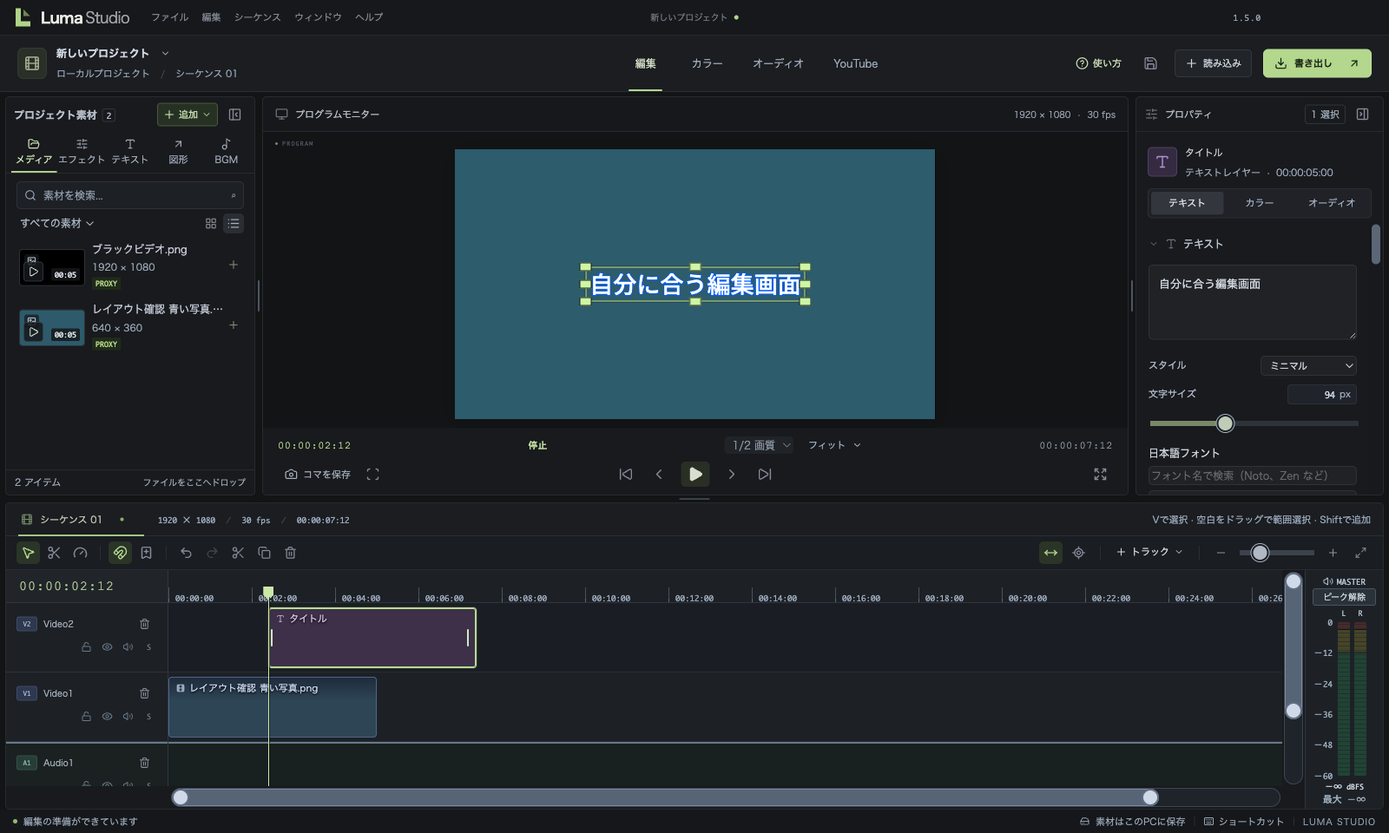
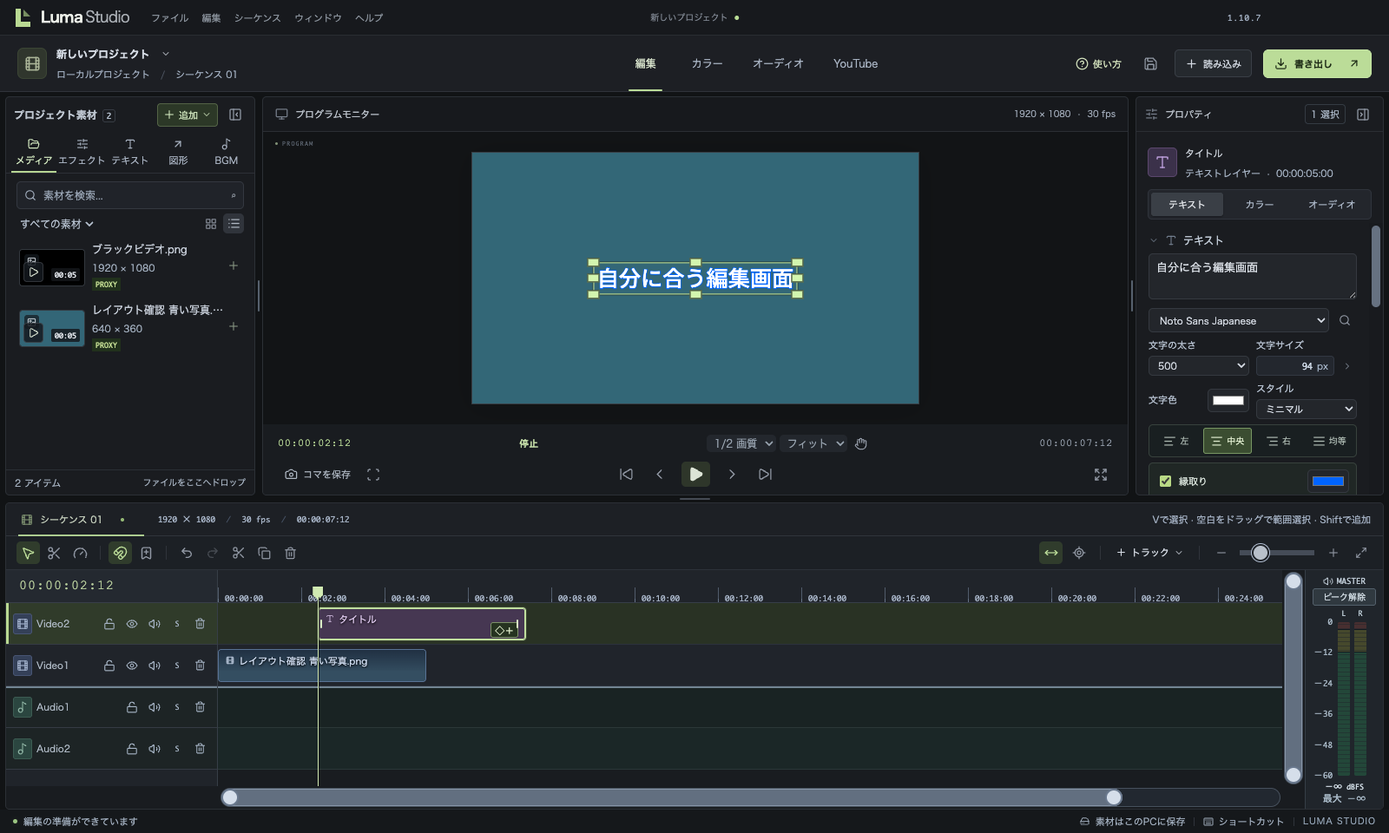
YouTube制作スタジオを拡大し、Luma Studio 1.10.7の配布と公式サイトを準備 (#136)
* feat: enlarge YouTube studio and add expanded monitor view

* test: preserve caption drafts scroll and time across monitor toggles

* test: verify studio toggles preserve playback position

* fix: preserve decoded cue frame when starting caption playback

* docs: prepare Luma Studio 1.10.7 release

* docs: refresh release website with verified 1.10.7 workspace

diff --git a/README.html b/README.html
@@ -4,9 +4,9 @@
   <meta charset="utf-8">
   <meta http-equiv="Content-Security-Policy" content="default-src 'none'; script-src 'unsafe-inline'; style-src 'unsafe-inline'; base-uri 'none'; form-action 'none'">
   <meta name="viewport" content="width=device-width, initial-scale=1">
-  <meta name="luma-version" content="1.10.6">
-  <meta name="description" content="Luma Studio 1.10.6 の日本語操作ガイド。文字揃え、影・縁取り、クロップ、マスク、範囲指定モザイク、ガウスぼかし、クロマキー、全35コマンドのショートカット、字幕、BGM、YouTube制作、MP4とMP3の書き出しを説明します。">
-  <title>Luma Studio 1.10.6 — 操作ガイド・全ショートカット一覧</title>
+  <meta name="luma-version" content="1.10.7">
+  <meta name="description" content="Luma Studio 1.10.7 の日本語操作ガイド。カットのガイドとスナップ、音声専用トラック、モニターでの選択と文字編集、数値ドラッグ、文字揃え、全35コマンドのショートカット、字幕、YouTube制作、MP4とMP3の書き出しを説明します。">
+  <title>Luma Studio 1.10.7 — 操作ガイド・全ショートカット一覧</title>
   <style>
     :root{color-scheme:light;--ink:#182b35;--muted:#526570;--paper:#f5f7f5;--line:#d7e1dc;--accent:#235942;--soft:#e8f1e9}
     *{box-sizing:border-box}html{scroll-behavior:smooth;scroll-padding-top:24px}body{margin:0;background:var(--paper);color:var(--ink);font:16px/1.85 "Yu Gothic UI","Meiryo",sans-serif}
@@ -29,11 +29,11 @@
 <body>
 <a class="skip" href="#main">本文へ移動</a>
 <header id="top"><div class="inner">
-  <div class="brand">LUMA STUDIO <span class="version">v1.10.6 / Windows・Mac</span></div>
+  <div class="brand">LUMA STUDIO <span class="version">v1.10.7 / Windows・Mac</span></div>
   <h1>編集を、迷わず進める。<br>操作ガイドと全ショートカット</h1>
   <p>素材の読み込みから字幕・BGM・YouTube用の投稿素材、MP4の書き出しまで。現在の実装に沿った日本語ガイドです。</p>
-  <p class="small">対応バージョン：1.10.6 · 更新日：2026年9月28日 · このHTMLはオフラインで閲覧できます。</p>
-  <p class="small">Mac開発版ではCtrlをCommand（⌘）、Deleteをdeleteと読み替えてください。Windowsから移した素材は再リンクが必要です。</p>
+  <p class="small">対応バージョン：1.10.7 · 更新日：2026年9月28日 · このHTMLはオフラインで閲覧できます。</p>
+  <p class="small">Mac版ではCtrlをCommand（⌘）、Deleteをdeleteと読み替えてください。Windowsから移した素材は再リンクが必要です。</p>
   <div class="hero-actions"><a href="#commands">全コマンド・キー一覧へ</a><a class="secondary" href="#start">最初の動画を作る</a><button type="button" id="print" data-enhanced hidden>印刷 / PDFに保存</button></div>
 </div></header>
 <div class="layout">
@@ -42,22 +42,17 @@
     <section id="new">
       <h2>最新版の主な機能</h2>
       <div class="cards">
-        <article class="card"><span class="tag">文字揃え</span><h3>左・中央・右・均等割付に揃える</h3><p>4つのボタンで文字揃えを切り替えます。文字枠がある場合は枠の内側、ない場合は最長行の幅が基準です。均等割付は最終行も含みます。</p></article>
-        <article class="card"><span class="tag">影・縁取り</span><h3>よく使う装飾をすぐに調整する</h3><p>影と縁取りのオン／オフ、色を常に表示します。縁取りの幅、影のぼかし・距離も同じ場所で調整できます。</p></article>
-        <article class="card"><span class="tag">コンパクトなプロパティ</span><h3>文章と装飾を先頭にまとめる</h3><p>文章、フォント、文字揃え、装飾を先に表示。説明文を省き、フォント検索と文字枠の設定は必要なときに開けます。</p></article>
-        <article class="card"><span class="tag">MP3書き出し</span><h3>タイムラインの音声だけを保存する</h3><p>動画内の音声、音声トラック、BGMを混ぜてMP3に保存できます。音声だけのプロジェクトにも対応します。</p></article>
-        <article class="card"><span class="tag">モザイク</span><h3>範囲と粒の大きさを指定する</h3><p>動画・画像の一部を、境界のはっきりした四角い粒で隠します。範囲と粗さはモニターや数値で指定できます。</p></article>
-        <article class="card"><span class="tag">ガウスぼかし</span><h3>範囲と強さを指定する</h3><p>動画・画像の選んだ範囲を滑らかにぼかします。モニターで範囲を移動・拡縮し、数値でも調整できます。</p></article>
-        <article class="card"><span class="tag">YouTube投稿文</span><h3>生成モデルを選ぶ</h3><p>投稿文にはGPT-6 AstraかGPT-6 Solを選べます。選択はアプリに保持され、文字起こしや画像生成のモデルは変わりません。</p></article>
-        <article class="card"><span class="tag">クロップ・マスク</span><h3>必要な形に、非破壊で切り抜く</h3><p>動画・画像の上下左右をクロップ。長方形、楕円、ベジェペンのマスクをモニター上で作成し、反転と境界ぼかしも調整できます。</p></article>
-        <article class="card"><span class="tag">クロマキー</span><h3>背景色をスポイトで選ぶ</h3><p>モニターの背景をクリックして採色。色の許容範囲、境界のなめらかさ、緑・青の色かぶり除去を調整できます。</p></article>
+        <article class="card"><span class="tag">カットとスナップ</span><h3>切る場所をガイド線で確認する</h3><p>ハサミの切断位置を縦線で表示します。スナップONなら、ハサミと再生ヘッドが近くの素材の切れ目へ吸着します。</p></article>
+        <article class="card"><span class="tag">コンパクトなトラック</span><h3>操作を1列にまとめる</h3><p>高さの初期値は最小48px。VideoとAudioをアイコンで区別し、新しくAudioへ置ける素材を音声に限定します。既存プロジェクトの配置は保持します。</p></article>
+        <article class="card"><span class="tag">モニターと数値編集</span><h3>画面で選び、その場で調整する</h3><p>クリックで素材とトラックを選択し、文字はダブルクリックで編集できます。数値欄はフォーカスしたまま左右ドラッグやUndo / Redoを使えます。</p></article>
+        <article class="card"><span class="tag">YouTube制作スタジオ</span><h3>映像を大きく確認する</h3><p>ウィンドウの縦幅を広げました。「モニターを拡大」で字幕一覧を隠し、「字幕一覧を表示」で戻せます。再生位置・選択・原稿は保持します。</p></article>
       </div>
-      <p class="small">モザイク、ガウスぼかし、クロップ、マスク、クロマキーは元の素材を変更せず、保存・Undo / Redo・トラックロック・MP4書き出しに対応します。会話音声の自動調整、BGM、音量ポイント、テキストの直接編集も引き続き利用できます。</p>
+      <p class="small">文字揃え、影・縁取り、MP3音声書き出し、範囲指定のモザイクやガウスぼかしも引き続き利用できます。各機能の条件と操作は、このガイドの該当項目を参照してください。</p>
     </section>
     <section id="start">
       <h2>起動と編集の流れ</h2>
       <p>1.0.0以降のWindows・Mac配布版は、素材・クリップ・マーカーが空の新規プロジェクトで起動します。初期設定は1920×1080・30fpsです。BGMライブラリにはbgm001.mp3〜bgm005.mp3の5曲を同梱し、必要な曲を選んで追加できます。「読み込み」から動画・画像・音声を追加してください。旧版の初期素材や外部「初期プロジェクト」は自動配置しません。保存済みプロジェクトは「開く」、自動保存は「復元する」で再開できます。</p>
-      <p>Windowsでは <code>Luma-Studio-1.10.6-Windows.exe</code> を起動します。Macでは配布ZIPを解凍し、<code>Luma Studio.app</code>を「アプリケーション」へ移動して起動します。Macの初回起動で開発元の確認が表示される場合は、別添のMac用手順を参照してください。Node.jsやFFmpegの別途インストールは不要です。MP4出力はCPUに加え、MacのVideoToolbox、WindowsのNVENC・Quick Sync・AMFに対応します。実際に使える方式はGPU・ドライバー・環境により異なります。</p>
+      <p>Windowsでは <code>Luma-Studio-1.10.7-Windows.exe</code> を起動します。Macでは配布ZIPを解凍し、<code>Luma Studio.app</code>を「アプリケーション」へ移動して起動します。Macの初回起動で開発元の確認が表示される場合は、別添のMac用手順を参照してください。Node.jsやFFmpegの別途インストールは不要です。MP4出力はCPUに加え、MacのVideoToolbox、WindowsのNVENC・Quick Sync・AMFに対応します。実際に使える方式はGPU・ドライバー・環境により異なります。</p>
       <ol>
         <li><strong>画面の向きを選ぶ：</strong>「ファイル → 新規プロジェクト」で横動画 <strong>1920×1080</strong> または Shorts <strong>1080×1920</strong> を選びます。初期値は30fps。後から「シーケンス」で変更できます。</li>
         <li><strong>素材を入れる：</strong>「読み込み」または <kbd>Ctrl</kbd> + <kbd>I</kbd>。動画・画像・音声のファイルをウィンドウへドラッグしても読み込めます。</li>
@@ -104,6 +99,7 @@
     </section>
     <section id="monitor">
       <h2>映像・画像をモニターで配置する</h2>
+      <p>停止中のプログラムモニターで映像・画像・文字・図形をクリックすると、対応するクリップとトラックを選択表示します。画面外にあるトラックもタイムラインの表示範囲へ移ります。選択だけでは再生位置や編集履歴は変わりません。ロック中の文字・図形も選択できますが、配置や文字は変更できません。</p>
       <h3>現在のコマを写真として保存する</h3>
       <p>保存したいコマへ移動し、モニター下のカメラボタン「現在のコマを保存」を押します。PNGまたはJPEGを選び、「保存先を選んで保存」でフォルダと名前を指定してください。テロップ・図形を含む編集画面を保存し、選択枠やガイドは含めません。</p>
       <p>「プロジェクトの素材にも追加」は最初からチェック済みです。写真だけ保存したい場合は外してください。追加した写真は素材一覧からタイムラインへ配置できます。写真の保存先と素材の読み込み先は別々に記憶し、次回起動後も前回のフォルダから選べます。</p>
@@ -116,7 +112,7 @@
       <p><kbd>Alt</kbd> を押している間は吸着を解除して微調整できます。一度吸着すると内外8pxまでの手ぶれを保持し、それ以上離すと解除します。細かい余白へ配置する場合はAltを押してください。テキスト・図形にも同じ操作が使えます。リサイズや数値入力には吸着しません。</p>
       <p>位置とスケールは右側のプロパティと連動し、保存・MP4出力にも反映します。<strong>位置X・Yは画面左上を基準にした素材の中心座標（px）</strong>です。1920×1080の画面中央はX=960、Y=540。拡大率は10〜300%。大きく拡大した場合もハンドルをモニター内の端に表示します。回転・不透明度・色調整はプロパティで設定します。</p>
       <p>数値の入力や図形の追加前設定を始めると再生が止まり、その時刻で調整できます。プロパティのタブは左右矢印キー、Home、Endでも切り替えられます。</p>
-      <p>数値欄の下のスライダーは通常折りたたまれています。数値欄横の矢印を押すと個別に開閉できます。折りたたんだままでも、数値の入力と左右ドラッグで調整できます。</p>
+      <p>数値欄の下のスライダーは通常折りたたまれています。数値欄横の矢印を押すと個別に開閉できます。折りたたんだままでも、数値の入力と左右ドラッグで調整できます。数値欄にフォーカスがあってもドラッグでき、1回のドラッグを1回のUndoで戻せます。数値欄・スライダーにフォーカスしたまま <kbd>Ctrl</kbd> + <kbd>Z</kbd> で元に戻し、<kbd>Ctrl</kbd> + <kbd>Shift</kbd> + <kbd>Z</kbd> または <kbd>Ctrl</kbd> + <kbd>Y</kbd> でやり直せます。MacではCommandも使えます。</p>
       <p>画像を動画に重ねるには、画像を上側の映像トラックへ置きます。停止中のメインモニターで直接操作できます。再生中やロック中、非表示・オフラインの素材は直接編集できません。</p>
       <h3>クロップとマスクで切り抜く</h3>
       <p>動画または画像を選び、右の「ビデオ → クロップ」で「モニターでクロップ」を押します。モニターに表示される4辺をドラッグするか、上・右・下・左を数値で指定します。元素材は変更せず、少なくとも1%の表示範囲を残します。</p>
@@ -141,7 +137,7 @@
     <section id="text">
       <h2>テキスト・図形・効果音</h2>
       <h3>文字を直接編集する</h3>
-      <p>左の「テキスト」に並ぶ見本をクリックすると、タイトル、ミニマル、字幕を再生ヘッドの位置へ追加できます。停止中のモニターで文字を<strong>ダブルクリック</strong>、または文字の移動ボタンにフォーカスして <kbd>F2</kbd> を押すと、その場で編集できます。<kbd>Enter</kbd> は改行、<kbd>Ctrl</kbd> + <kbd>Enter</kbd> で確定、<kbd>Esc</kbd> で取り消しです。入力欄に重なる操作ガイドは表示しません。開いた直後から入力でき、入力欄の外をクリックすると確定します。</p>
+      <p>左の「テキスト」に並ぶ見本をクリックすると、タイトル、ミニマル、字幕を再生ヘッドの位置へ追加できます。停止中のモニターでは、文字を1回クリックすると素材とトラックを選択します。文字を<strong>ダブルクリック</strong>、または文字の移動ボタンにフォーカスして <kbd>F2</kbd> を押すと、その場で編集できます。<kbd>Enter</kbd> は改行、<kbd>Ctrl</kbd> + <kbd>Enter</kbd> で確定、<kbd>Esc</kbd> で取り消しです。入力欄に重なる操作ガイドは表示しません。開いた直後から入力でき、入力欄の外をクリックすると確定します。</p>
       <p>文字をドラッグして移動し、選択枠の四隅・辺でテキストボックスの幅・高さを変えられます。<strong>枠の変更は文字サイズの変更とは別</strong>で、幅に合わせて折り返します。文字が隠れるときはプロパティの「枠の高さを文字に合わせる」を使います。</p>
       <p>初期フォントは同梱の<strong>Noto Sans Japanese</strong>。登録済みのGoogle Fonts日本語書体を選択でき、同梱以外は初回に取得して保存します。フォント、太さ、文字サイズ、色、左・中央・右揃え・均等割付を変更できます。影と縁取りはテキスト欄から直接オン／オフ、色、ぼかし・距離・幅を調整できます。</p>
       <div class="note"><strong>新規テキストの共通初期値：</strong>影なし、縁取りあり・<strong>4px</strong>、縁取り色 <strong>R0・G100・B255（#0064FF）</strong>。ミニマルの中心は横型で960・540、縦型で540・960です。既存テキストの設定は維持します。</div>
@@ -200,6 +196,7 @@
     <section id="youtube">
       <h2>自動字幕・YouTubeの投稿素材を作る</h2>
       <p>上部の「YouTube」から制作スタジオを開きます。AI機能の実行にはOpenAI APIキーが必要で、音声や入力内容を外部へ送信し、API利用料が発生します。</p>
+      <p>制作スタジオは画面の高さを広く使います。日本語字幕の「モニターを拡大」を押すと字幕一覧を隠して映像を大きく表示し、「字幕一覧を表示」で元に戻せます。再生位置、字幕の選択、確定済みの原稿、一覧のスクロール位置を保持します。反復再生中も切り替えられます。</p>
       <ol>
         <li><strong>API設定：</strong>キーを入力、または「.envから読み込む」で <code>OPENAI_API_KEY</code> のあるファイルを選びます。Windowsユーザー用に暗号化して保存し、プロジェクトには含めません。</li>
         <li><strong>日本語で文字起こし：</strong>編集済みタイムラインの音声を使います。固有名詞・専門用語をヒントに入力できます。会話が埋もれる場合はBGMをミュートして実行します。</li>
@@ -238,10 +235,10 @@
       <p>進捗表示、中止、保存先を開く操作に対応します。新しい出力が完成するまで既存の出力は置き換えません。元の素材と同じ場所・ファイル名への書き出しはできません。</p>
       <p>キーフレームで動くマスクは、同じ内容を再び書き出すと準備済みのマスクを再利用します。マスクや素材、書き出しサイズ、FPSを変えた場合は作り直します。不要になった準備データは「ヘルプ → 書き出し用マスクキャッシュを削除」から消せます。素材と完成したMP4は削除されません。</p>
     </section>
-    <section id="updates"><h2>ヘルプとアップデート</h2><p>ヘルプメニューから「初めての動画編集」「ショートカットキー一覧」「アップデート」を開けます。ショートカット一覧にはWindows / Macと修飾キーを切り替えられるキーボード図があります。</p><p>起動時にGitHubの最新安定版を確認し、対応する新しい配布版があると「更新あり」を表示します。「アップデート」から再確認とダウンロードページの表示ができます。自動でアプリを置き換える機能ではありません。編集を保存し、書き出しを終えてアプリを終了してから入れ替えてください。1.0.0からの初回更新は公式サイトから1.10.6を取得してください。</p></section><section id="commands">
+    <section id="updates"><h2>ヘルプとアップデート</h2><p>ヘルプメニューから「初めての動画編集」「ショートカットキー一覧」「アップデート」を開けます。ショートカット一覧にはWindows / Macと修飾キーを切り替えられるキーボード図があります。</p><p>起動時にGitHubの最新安定版を確認し、対応する新しい配布版があると「更新あり」を表示します。「アップデート」から再確認とダウンロードページの表示ができます。自動でアプリを置き換える機能ではありません。編集を保存し、書き出しを終えてアプリを終了してから入れ替えてください。1.0.0からの初回更新は公式サイトから1.10.7を取得してください。</p></section><section id="commands">
       <h2>全コマンド・ショートカット一覧</h2>
       <p><strong>通常のキー割り当ては全35コマンド。</strong>別キーも併記しています。続けて、特定の場所で使うキー、マウス操作、キー未割り当てのコマンドと操作場所を掲載しています。</p>
-      <div class="note"><p><strong>キーが効く場所に注意：</strong>入力欄・日本語変換中・ダイアログやメニューの表示中は、通常の編集ショートカットを実行しません。音量ポイントなどにフォーカスがあると、その場所の操作が優先されます。Windows用のCtrl表記です。</p><p>コマ送り・ズームは押し続けて連続操作できます。削除・分割・J/Lの加速は押し直して操作します。<kbd>?</kbd> でアプリ内のショートカット検索を開けます。</p></div>
+      <div class="note"><p><strong>キーが効く場所に注意：</strong>文章の入力欄・日本語変換中・ダイアログやメニューの表示中は、通常の編集ショートカットを実行しません。数値欄・スライダーでは、フォーカス中もUndo / Redoを利用できます。音量ポイントなどにフォーカスがあると、その場所の操作が優先されます。Windows用のCtrl表記です。</p><p>コマ送り・ズームは押し続けて連続操作できます。削除・分割・J/Lの加速は押し直して操作します。<kbd>?</kbd> でアプリ内のショートカット検索を開けます。</p></div>
       <div class="search-panel" data-enhanced hidden>
         <div class="search-fields"><label for="command-search">コマンド・キー・操作場所で検索<input id="command-search" type="search" placeholder="例：Ctrl / 音量 / リップル / F2" autocomplete="off" aria-controls="command-tables"></label><label for="command-type">表示する種類<select id="command-type" aria-controls="command-tables"><option value="all">すべて</option><option value="global">通常のショートカット</option><option value="context">場面別のキー操作</option><option value="mouse">マウス操作</option><option value="menu">キー未割り当て</option></select></label></div>
         <div class="search-status"><span id="command-count" role="status" aria-live="polite"></span><button id="clear-search" type="button">絞り込みを解除</button></div>
@@ -425,7 +422,7 @@
       <h2>対応範囲・開発用の確認</h2>
       <p>Windows用の日本語マルチトラック動画編集アプリです。編集と動画書き出しはローカルで処理し、AI機能の実行時はOpenAI APIへ送信します。追加フォントの初回取得にもインターネットを使います。</p>
       <p>Premiere Proのプロジェクト読込、After Effects連携、外部プラグイン、マルチカム、ベジェ補間のグラフエディター、モーショントラッキング、人物の自動リフレーム、HDRの色管理は未実装です。音量ラインと、位置・回転・不透明度・見た目を変える共通キーフレームは実装済みです。</p>
-      <p>このガイドはv1.10.6の実装を基準としています。長時間4K・大量素材の耐久性能は未確認です。動画素材の長さ制限を外したことは、メモリやディスク使用量が無制限という意味ではありません。</p>
+      <p>このガイドはv1.10.7の実装を基準としています。長時間4K・大量素材の耐久性能は未確認です。動画素材の長さ制限を外したことは、メモリやディスク使用量が無制限という意味ではありません。</p>
       <h3>ソースから起動する</h3>
       <p>Node.js 22.12以上を使い、リポジトリで次を実行します。</p>
       <pre><code>npm ci
@@ -437,7 +434,7 @@ npm start</code></pre>
       <p>開発用は <code>npm run dev</code>。ブラウザーの画面確認は <code>npm run dev:web</code> です。ネイティブのMP4出力などはWindows・Macアプリで利用します。</p>
       <p>ガイドのコマンドとキー割り当ては <code>npm run verify:readme</code> で実装と照合できます。通常の検証は <code>npm test</code>、<code>npm run build</code>。操作仕様とレビュー記録は <a href="https://github.com/altimix/LumaStudio">GitHubリポジトリ</a>で管理します。</p>
     </section>
-    <footer><p>Luma Studio v1.10.6 · README.html · 2026年9月28日更新<br>外部フォント・画像・CDNを使わない単体HTMLです。検索はこのページ内で行います。印刷では絞り込みにかかわらず全一覧を出力します。</p><a href="#top">ページの先頭へ戻る</a></footer>
+    <footer><p>Luma Studio v1.10.7 · README.html · 2026年9月28日更新<br>外部フォント・画像・CDNを使わない単体HTMLです。検索はこのページ内で行います。印刷では絞り込みにかかわらず全一覧を出力します。</p><a href="#top">ページの先頭へ戻る</a></footer>
   <p>トラック名の横のごみ箱からトラックを削除できます。素材がある場合は確認を表示します。元ファイルと別トラックの素材は残り、Ctrl+Zで戻せます。最後の1本とロック中のトラックは削除できません。</p><p>素材・図形・字幕の追加や移動で同じトラック内に重なる場合は、新しいトラックへ時間位置を保って自動配置します。ドラッグではマウスを離した時に整理します。Ctrl+Zで自動追加トラックも一緒に戻せます（最大24本）。</p></main>
 </div>
 <script>

diff --git a/src/components/YouTubeStudio.tsx b/src/components/YouTubeStudio.tsx
@@ -2,7 +2,7 @@ import { shortcutLabel } from '../shortcut-label';
 import { useEffect, useMemo, useRef, useState } from 'react';
 import { Captions, Copy, Download, ImagePlus, KeyRound, LoaderCircle, Sparkles, Youtube } from 'lucide-react';
 import { useEditor } from '../store';
-import { endTime } from '../model';
+import { endTime, roundFrame } from '../model';
 import { applySubtitles, emptyYoutube } from '../youtube';
 import { chapterTime, descriptionWithChapters, parseHashtags, timelineKey, validateYoutube, validateYoutubeProject, validChapters, youtubeText } from '../../shared/youtube.mjs';
 import type { AIProgress, AIStatus, Project, SubtitleCue, YoutubeData } from '../types';
@@ -25,6 +25,7 @@ export default function YouTubeStudio({ onClose }: { onClose: () => void }) {
   const [busy, setBusy] = useState(false), [progress, setProgress] = useState<AIProgress>(), [error, setError] = useState('');
   const [copied, setCopied] = useState('');
   const [activeCue, setActiveCue] = useState(0);
+  const [monitorExpanded, setMonitorExpanded] = useState(false);
   const copying = useRef(false);
   const [vocabulary, setVocabulary] = useState(''), [search, setSearch] = useState(''), [replacement, setReplacement] = useState(''), [page, setPage] = useState(0);
   const alive = useRef(true), running = useRef(false), scroll = useRef<HTMLDivElement>(null);
@@ -117,7 +118,10 @@ export default function YouTubeStudio({ onClose }: { onClose: () => void }) {
     if (invalidDraft.current) return false;
     const current = useEditor.getState(), cues = current.project.youtube?.cues || [], cue = cues[index];
     if (!cue) return false;
-    setActiveCue(index); current.stop(); current.seek(cue.start);
+    setActiveCue(index); current.stop();
+    // Re-selecting the displayed start frame must not invalidate its decoded
+    // image just before playback. Slow renderers need it until video catches up.
+    if (current.playhead !== roundFrame(cue.start, current.project.fps)) current.seek(cue.start);
     const matched = cues.map((cue, index) => ({ cue, index })).filter(({ cue }) => !search || cue.text.includes(search));
     const position = matched.findIndex(item => item.index === index);
     if (position >= 0) setPage(Math.floor(position / 40)); else { setSearch(''); setPage(Math.floor(index / 40)); }
@@ -147,7 +151,7 @@ export default function YouTubeStudio({ onClose }: { onClose: () => void }) {
     {tab === 'captions' && !!y.transcriptionStats?.timingFallbacks ? <p className="yt-notice">{y.transcriptionStats.timingFallbacks}区間は、短い音声で再確認した時刻付き認識を採用しました。字幕の本文を確認できます。</p> : null}
     {error ? <p className="yt-error" role="alert">{error}</p> : null}
     <p className={`yt-copy-status${copied ? ' visible' : ''}`} role="status" aria-live="polite" aria-atomic="true">{copied}</p>
-    <div className={`yt-workspace ${tab === 'captions' ? 'with-preview' : ''}`}>{tab === 'captions' ? <CaptionMonitor cues={y.cues} index={Math.min(activeCue, Math.max(0, y.cues.length - 1))} disabled={busy || stale || draftInvalid} onSelect={selectCue}/> : null}<div className="yt-scroll" ref={scroll}><fieldset className="yt-content" disabled={busy}>
+    <div className={`yt-workspace ${tab === 'captions' ? `with-preview${monitorExpanded ? ' monitor-expanded' : ''}` : ''}`}>{tab === 'captions' ? <CaptionMonitor cues={y.cues} index={Math.min(activeCue, Math.max(0, y.cues.length - 1))} disabled={busy || stale || draftInvalid} onSelect={selectCue} expanded={monitorExpanded} onToggleExpanded={() => setMonitorExpanded(value => !value)}/> : null}<div className="yt-scroll" ref={scroll} hidden={tab === 'captions' && monitorExpanded}><fieldset className="yt-content" disabled={busy}>
       {tab === 'settings' ? <div className="yt-settings"><h3>OpenAI APIの設定</h3><p>文字起こし時に音声を、投稿文・画像生成時に入力内容をOpenAIへ送信します。実行した分のAPI利用料がかかります。</p><label>OpenAI APIキー<input aria-label="OpenAI APIキー" type="password" autoComplete="new-password" placeholder="sk-…" value={key} onChange={e => setKey(e.target.value)}/></label><div className="yt-actions"><button className="primary-button" disabled={!key || !window.luma} onClick={() => void task(async () => { const value = key; setKey(''); const s = await window.luma!.aiSetKey(value); if (alive.current) setStatus(s); })}>キーを保存</button><button className="secondary-button" disabled={!window.luma} onClick={() => void task(async () => { const s = await window.luma!.aiImportEnv(); if (alive.current) setStatus(s); })}>.envから読み込む</button><button className="text-button" disabled={!status?.configured} onClick={() => void task(async () => { const s = await window.luma!.aiClearKey(); if (alive.current) setStatus(s); })}>保存したキーを解除</button></div><p>{status?.configured ? `利用元: ${status.source}` : 'APIキーを入力するか、OPENAI_API_KEYがある.envを選択してください。'} キーはこのWindowsユーザー用に暗号化して保存します。</p><p>文字起こしは gpt-transcribe、字幕時刻の取得は whisper-1 を使用します。発話のある区間では両モデルのAPI利用料がかかります。時刻が合わない区間の自動再試行にもAPI利用料がかかります。</p><div className="yt-models"><span>日本語の文字起こし<strong>{status?.transcriptionModel || 'gpt-transcribe'}</strong></span><span>投稿文<strong>{textModel}</strong></span><span>画像生成<strong>{status?.imageModel || 'gpt-image-2.5-sunburst'}</strong></span></div></div> : null}
       {tab === 'captions' ? <><div className="yt-toolbar"><label>固有名詞・専門用語のヒント<input aria-label="日本語の用語ヒント" maxLength={120} placeholder="例：Luma Studio、動画編集、リップルトリミング" value={vocabulary} onChange={e => setVocabulary(e.target.value)}/></label><button className="primary-button" disabled={!status?.configured || !p.clips.length} onClick={() => void task(async current => { const result = await window.luma!.aiTranscribe(current, vocabulary); accept(current, result); setPage(0); setActiveCue(0); })}><Sparkles size={15}/>{y.cues.length ? '文字起こしを再実行' : '日本語で文字起こし'}</button></div><p className="yt-hint">長い音声も自動で区切り、本文と時刻が合わない区間だけ再確認します。短い区間でも一致しない場合は、時刻付き認識の本文を採用します。字幕は20〜30文字を目安に句読点・発話の間で区切ります。白文字・青い縁取り・影なしで、横動画とショートに合わせた大きさを使います。編集済みの音声を使用します。会話以外のトラックをミュートすると認識しやすくなります。再実行すると現在の字幕原稿と投稿文を置き換えます。</p>
       {y.cues.length ? <><div className="yt-search"><input aria-label="字幕内を検索" placeholder="字幕内を検索" value={search} onChange={e => { setSearch(e.target.value); setPage(0); }}/><input aria-label="字幕の置換後の文字" placeholder="置換後の文字" value={replacement} onChange={e => setReplacement(e.target.value)}/><button className="secondary-button" disabled={!search} onClick={() => update({ cues: y.cues.map(c => ({ ...c, text: c.text.replaceAll(search, replacement) })) })}>すべて置換</button></div><div className="yt-cue-list">{rows.map(({ cue, index }) => <div className={`yt-cue ${activeCue === index ? 'active-cue' : ''}`} key={index}><button className="yt-cue-jump" title="この字幕の映像を確認" aria-label={`字幕${index + 1}の映像を確認`} aria-pressed={activeCue === index} onClick={() => selectCue(index)}>{String(index + 1).padStart(3, '0')}</button><div className="yt-cue-times"><label>開始秒<input aria-label={`字幕${index + 1}の開始秒`} type="number" min={0} step={0.01} key={cue.start} defaultValue={Number(cue.start.toFixed(3))} onChange={e => checkDraft(cueDraft(index, { start: seconds(e.target.value) }))} onBlur={e => commitDraft(cuePatch(index, { start: seconds(e.target.value) }), e.currentTarget, String(Number(cue.start.toFixed(3))))}/></label><label>終了秒<input aria-label={`字幕${index + 1}の終了秒`} type="number" min={0} step={0.01} key={cue.end} defaultValue={Number(cue.end.toFixed(3))} onChange={e => checkDraft(cueDraft(index, { end: seconds(e.target.value) }))} onBlur={e => commitDraft(cuePatch(index, { end: seconds(e.target.value) }), e.currentTarget, String(Number(cue.end.toFixed(3))))}/></label></div><textarea aria-label={`字幕${index + 1}の本文`} rows={2} maxLength={4000} key={cue.text} defaultValue={cue.text} onChange={e => checkDraft(cueDraft(index, { text: e.target.value }))} onBlur={e => commitDraft(cuePatch(index, { text: e.target.value }), e.currentTarget, cue.text)}/></div>)}</div><div className="yt-pagination"><button disabled={!page} onClick={() => setPage(page - 1)}>前の40件</button><span>{Math.min(page * 40 + 1, filtered.length)}–{Math.min((page + 1) * 40, filtered.length)} / {filtered.length}件</span><button disabled={(page + 1) * 40 >= filtered.length} onClick={() => setPage(page + 1)}>次の40件</button></div><div className="yt-actions"><button className="primary-button" disabled={stale || draftInvalid} onClick={() => { if (invalidDraft.current) return; try { const s = useEditor.getState(); const next=applySubtitles(s.project); validateYoutubeProject(next); if(!s.commit(next, '日本語字幕をタイムラインに適用'))return; s.notify('字幕を適用しました。既存の自動字幕は更新され、Undoで戻せます。'); } catch (e) { setError(message(e)); } }}><Captions size={15}/>字幕をタイムラインに適用</button><button className="secondary-button" disabled={draftInvalid} onClick={() => void save('srt')}><Download size={14}/>SRT保存</button><button className="secondary-button" disabled={draftInvalid} onClick={() => void save('vtt')}>VTT保存</button></div></> : <div className="yt-empty"><Captions size={36}/><strong>話した言葉を、読みやすい日本語字幕に。</strong><p>時刻付きの原稿を作成し、誤変換を直してからタイムラインに適用できます。</p></div>}</> : null}

diff --git a/website/assets/site.css b/website/assets/site.css
@@ -27,4 +27,6 @@
 @media(max-width:1100px){.developer-intro{grid-template-columns:1fr;gap:28px}.developer-profile{max-width:560px}.site-header nav{gap:16px}}
 @media(max-width:740px){html{scroll-padding-top:165px}.site-header nav{flex-wrap:wrap;justify-content:flex-start;gap:12px 18px;font-size:13px}.developer-section{padding-bottom:40px}.developer-profile{gap:18px;align-items:flex-start}.developer-profile .developer-portrait{width:110px;height:110px}.developer-profile figcaption>strong{font-size:24px}.developer-credentials{font-size:14px}.developer-message{padding:22px 20px;margin-top:28px}.trust-points{grid-template-columns:1fr;gap:24px}.developer-page h1{font-size:30px}.developer-page-profile{grid-template-columns:1fr;gap:22px}.developer-page-profile .developer-portrait{width:200px;height:200px}.developer-page-profile h2{font-size:28px}}
 
-.release-highlights{padding-top:70px;padding-bottom:30px}.release-highlights h2{max-width:800px}.release-grid{display:grid;grid-template-columns:repeat(auto-fit,minmax(260px,1fr));gap:24px;margin-top:30px}.release-grid article{padding:28px 32px;border:1px solid var(--line);border-radius:12px;background:var(--white)}.release-grid .feature-number{margin:0 0 14px}.release-grid p,.release-grid ul{font-size:14px;line-height:1.95;color:var(--muted);margin:16px 0}.release-grid ul{padding-left:20px}.release-grid li+li{margin-top:5px}@media(max-width:740px){.release-highlights{padding-top:45px}.release-grid{grid-template-columns:1fr;gap:18px}.release-grid article{padding:24px}}
+.release-highlights{padding-top:70px;padding-bottom:30px}.release-highlights h2{max-width:800px}.release-grid{display:grid;grid-template-columns:repeat(auto-fit,minmax(260px,1fr));gap:24px;margin-top:30px}.release-grid article{display:flex;flex-direction:column;padding:28px 32px;border:1px solid var(--line);border-radius:12px;background:var(--white)}.release-grid .feature-number{margin:0 0 14px}.release-grid p,.release-grid ul{font-size:14px;line-height:1.95;color:var(--muted);margin:16px 0}.release-grid ul{padding-left:20px}.release-grid li+li{margin-top:5px}@media(max-width:740px){.release-highlights{padding-top:45px}.release-grid{grid-template-columns:1fr;gap:18px}.release-grid article{padding:24px}}
+
+.release-grid article>.text-link{margin-top:auto}

diff --git a/src/components/CaptionMonitor.tsx b/src/components/CaptionMonitor.tsx
@@ -1,11 +1,12 @@
 import { useEffect, useRef, useState } from 'react';
 import Preview from './Preview';
+import { Maximize2, Minimize2 } from 'lucide-react';
 import { endTime } from '../model';
 import { captionPlaybackRange } from '../youtube';
 import { useEditor } from '../store';
 import type { SubtitleCue } from '../types';
 
-export default function CaptionMonitor({ cues, index, disabled, onSelect }: { cues: SubtitleCue[]; index: number; disabled: boolean; onSelect: (index: number) => boolean }) {
+export default function CaptionMonitor({ cues, index, disabled, onSelect, expanded, onToggleExpanded }: { expanded: boolean; onToggleExpanded(): void; cues: SubtitleCue[]; index: number; disabled: boolean; onSelect: (index: number) => boolean }) {
   const [loop, setLoop] = useState(false);
   const cue = cues[index];
   const duration = useEditor(state => endTime(state.project));
@@ -40,6 +41,7 @@ export default function CaptionMonitor({ cues, index, disabled, onSelect }: { cu
       <button disabled={disabled || index <= 0} onClick={() => { setLoop(false); onSelect(index - 1); }}>前の字幕</button>
       <button disabled={disabled || !playable} aria-pressed={loop} onClick={() => { if (loop) { setLoop(false); useEditor.getState().stop(); } else playCue(); }}>{loop ? '反復再生を停止' : 'この字幕を反復再生'}</button>
       <button disabled={disabled || index >= cues.length - 1} onClick={() => { setLoop(false); onSelect(index + 1); }}>次の字幕</button>
+      <button className="caption-monitor-expand" aria-pressed={expanded} onClick={onToggleExpanded}>{expanded ? <Minimize2 size={14}/> : <Maximize2 size={14}/>} {expanded ? '字幕一覧を表示' : 'モニターを拡大'}</button>
     </div>
     {cue && !playable ? <p className="yt-notice">この字幕には再生できる長さの区間がありません。時刻を確認してください。</p> : null}
     <div className="caption-draft-preview"><strong>字幕原稿 {cue ? `${index + 1} / ${cues.length}` : ''}</strong><p>{cue?.text || '字幕を選ぶと、この位置の映像を確認できます。'}</p><small>映像への反映は「字幕をタイムラインに適用」で確定します。</small></div>

diff --git a/src/youtube.css b/src/youtube.css
@@ -18,3 +18,33 @@
 .yt-reference-preview span{font-size:11px;overflow-wrap:anywhere;min-width:0}
 .yt-thumbnail-reference .yt-actions{margin:0;flex-wrap:wrap}
 .yt-thumbnail-reference .yt-hint{margin:0}
+
+/* Give the studio the available window height; scroll only its individual panes. */
+.modal-backdrop:has(.youtube-studio){padding:12px 16px}
+.modal.wide:has(.youtube-studio){height:calc(100dvh - 24px);max-height:calc(100dvh - 24px);display:flex;flex-direction:column;overflow:hidden}
+.modal:has(.youtube-studio)>.modal-heading{flex-shrink:0;padding:10px 18px}
+.modal.wide .youtube-studio{flex:1;min-height:0;height:auto;max-height:none}
+.youtube-studio .yt-intro{padding:8px 16px}
+.youtube-studio .yt-tabs{padding:3px 12px}
+.youtube-studio .yt-tabs button{padding:8px 12px}
+.youtube-studio .yt-footer,.youtube-studio .yt-progress{padding:8px 12px}
+.yt-workspace.monitor-expanded>.yt-scroll{display:none}
+.caption-monitor-expand{display:flex;align-items:center;gap:4px;margin-left:auto}
+.caption-draft-preview{flex-shrink:0}
+.caption-draft-preview p{max-height:65px;overflow:auto}
+
+.youtube-studio .yt-logo{width:30px;height:30px;border-radius:7px}
+.youtube-studio .yt-logo svg{width:20px;height:20px}
+.youtube-studio .yt-intro strong{font-size:14px}
+.youtube-studio .yt-intro p{margin-top:2px;font-size:10px}
+.caption-monitor .preview-bottom{padding:5px 10px}
+.caption-monitor .transport{margin-top:3px;height:28px}
+.caption-monitor-controls{flex-shrink:0}
+.caption-draft-preview{padding:7px 10px}
+.caption-draft-preview p{margin:3px 0;max-height:44px;line-height:1.5}
+.caption-draft-preview small{display:none}
+.youtube-studio:has(.monitor-expanded) .yt-intro{display:none}
+.youtube-studio:has(.with-preview) .yt-intro{padding:4px 16px;gap:10px}
+.youtube-studio:has(.with-preview) .yt-logo{width:22px;height:22px}
+.youtube-studio:has(.with-preview) .yt-intro strong{font-size:12px}
+.youtube-studio:has(.with-preview) .yt-intro p{display:none}

diff --git a/docs/specs/138-release-1.10.7.md b/docs/specs/138-release-1.10.7.md
@@ -1,0 +1,14 @@
+# 1.10.7の正式配布
+
+Issue: https://github.com/altimix/LumaStudio/issues/138
+
+Issue #132・#133・#134のタイムライン、YouTube制作スタジオ、モニターと数値編集の改善を1.10.7で配布する。各機能の条件は132-timeline-guides.md、055-caption-workspace.md、134-monitor-property-editing.md、043-number-input-scrub.mdに従う。
+
+- アプリ、ロックファイル、README、HTML操作ガイド、Windows / Macの起動ガイド、公式サイトを1.10.7へ揃え、1.10.6までの更新履歴を残す。
+- ハサミの切断位置と再生ヘッドのスナップ、48pxを初期値にした1列のトラック操作、Audioへの音声専用配置を案内する。既存プロジェクトの配置は保持する。
+- モニターのクリックによる素材・トラック選択、ダブルクリックまたはF2の文字編集、フォーカス中の数値ドラッグとUndo / Redo、YouTubeモニターの拡大と字幕一覧への復帰を案内する。
+- 最終ソースで基本検証、Windows / macOSのpackageとverify:packaged、Website CI、CodeQL、Codexレビューを確認する。保存・再読込・ロック・Undo / Redo・MP4画素比較と既存の音声・MP3出力を回帰確認する。
+- 最終ソースに一致するCI由来のWindows x64 EXEとMac arm64 ZIPを公開し、内蔵版数、Mac署名、ガイド、ライセンス、メディアツールの対応ソース、SHA256を照合する。既存タグ・リリースは上書きしない。
+- GitHub Release公開後に公式サイトへ配備し、PC/390pxの表示、マニュアル検索、SEO、404、Windows/Macの配布リンクとチェックサムをHTTPS本番で確認する。
+
+公式サイトの編集画面例は、1.10.7の実Mac配布アプリによるレイアウト検証の撮影画像へ更新する。生成した青い背景と文字の操作例で、初期状態とは区別して案内する。架空UIの作成や画像加工は行わず、以前の素材クレジットも保持する。

diff --git a/website/README.md b/website/README.md
@@ -43,7 +43,7 @@ npm run deploy --prefix website
 
 本番HTTPSを指定した検証では、配布EXE・ZIP・起動手順・SHA256のリンクをリダイレクト対応HEADで確認します。Website CIはローカルの変更案と現在の公開サイトの両方を検証します。未公開版の配布リンクはリリース公開後、サイト更新後の本番検証で確認します。
 
-トップの`assets/workspace.png`は1.5.0の実アプリの編集画面です。現行版とは操作パネルなどが異なることを明記し、画像そのものを現行版の画面とは表示しません。青い背景と文字を使った操作例で、元画像の加工や架空UIの生成はしていません。従来の`assets/editor.png`とその映像クレジットも保持しています。
+トップの`assets/workspace.png`は1.10.7のMac配布アプリで、`scripts/verify-layout.cjs`の操作検証中に撮影した編集画面です。青い背景と文字を使った操作例で、元画像の加工や架空UIの生成はしていません。従来の`assets/editor.png`とその映像クレジットも保持しています。
 
 ## 開発者情報と検索
 
